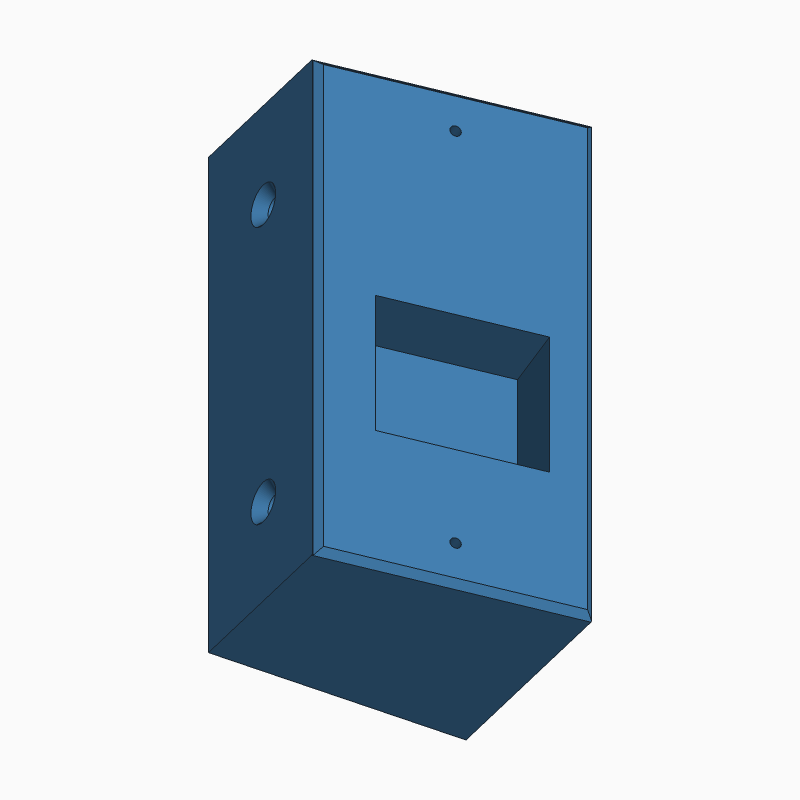
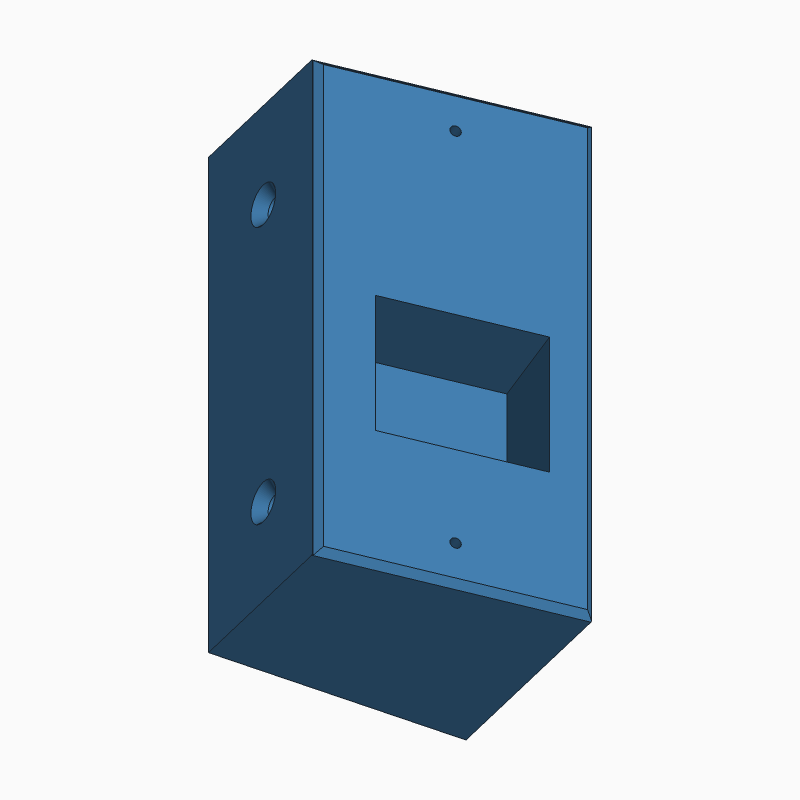
Update measurements and add wiring pocket for Option 1 in documentation and code

Changed region(s): [[0.4688, 0.4375, 0.6562, 0.5938]]

diff --git a/docs/MEASUREMENTS.md b/docs/MEASUREMENTS.md
@@ -27,7 +27,7 @@ Source file: [`option1-solid/option1_solid.scad`](../option1-solid/option1_solid
 
 | Part | X × Y × Z (mm) | Volume (cm³) | Watertight |
 |---|---|---|---|
-| [Block](../option1-solid/stl/block.stl) | 55.00 × 45.79 × 110.00 | 235.52 | yes |
+| [Block](../option1-solid/stl/block.stl) | 55.00 × 45.79 × 110.00 | 230.58 | yes |
 
 ### Envelope
 
@@ -52,7 +52,7 @@ Source file: [`option1-solid/option1_solid.scad`](../option1-solid/option1_solid
 | `pocket_z_max` | 60 | written | top of pocket above block bottom |
 | `pocket_deep_inset` | 9 | scaled | pocket edge to deep side, front view |
 | `pocket_width` | 34.3 | scaled | front-view width |
-| `pocket_depth` | 15 | fixed | behind the camera plate |
+| `pocket_depth` | 15 | fixed | behind the camera plate (options 2-4; option 1 uses its own block_pocket_depth, 20) |
 
 ### Cable hole
 
@@ -77,6 +77,12 @@ Source file: [`option1-solid/option1_solid.scad`](../option1-solid/option1_solid
 | `depth_deep` | 46 | scaled | depth at the deep (mounting) side |
 | `face_angle` | 8 | chosen | degrees the camera face is turned |
 | `face_chamfer` | 1.5 | chosen | 45 degree bevel on the camera-face edges; 0 = none |
+
+### Pocket
+
+| Parameter | Value | Source | Notes |
+|---|---|---|---|
+| `block_pocket_depth` | 20 | chosen | behind the camera face, measured square to the face |
 
 ### Block mounting screws
 
@@ -122,7 +128,7 @@ Source file: [`option2-hinge/option2_hinge.scad`](../option2-hinge/option2_hinge
 | `pocket_z_max` | 60 | written | top of pocket above block bottom |
 | `pocket_deep_inset` | 9 | scaled | pocket edge to deep side, front view |
 | `pocket_width` | 34.3 | scaled | front-view width |
-| `pocket_depth` | 15 | fixed | behind the camera plate |
+| `pocket_depth` | 15 | fixed | behind the camera plate (options 2-4; option 1 uses its own block_pocket_depth, 20) |
 
 ### Cable hole
 
@@ -247,7 +253,7 @@ Source file: [`option3-dovetail/option3_dovetail.scad`](../option3-dovetail/opti
 | `pocket_z_max` | 60 | written | top of pocket above block bottom |
 | `pocket_deep_inset` | 9 | scaled | pocket edge to deep side, front view |
 | `pocket_width` | 34.3 | scaled | front-view width |
-| `pocket_depth` | 15 | fixed | behind the camera plate |
+| `pocket_depth` | 15 | fixed | behind the camera plate (options 2-4; option 1 uses its own block_pocket_depth, 20) |
 
 ### Cable hole
 
@@ -371,7 +377,7 @@ Source file: [`option4-pivot/option4_pivot.scad`](../option4-pivot/option4_pivot
 | `pocket_z_max` | 60 | written | top of pocket above block bottom |
 | `pocket_deep_inset` | 9 | scaled | pocket edge to deep side, front view |
 | `pocket_width` | 34.3 | scaled | front-view width |
-| `pocket_depth` | 15 | fixed | behind the camera plate |
+| `pocket_depth` | 15 | fixed | behind the camera plate (options 2-4; option 1 uses its own block_pocket_depth, 20) |
 
 ### Cable hole
 
